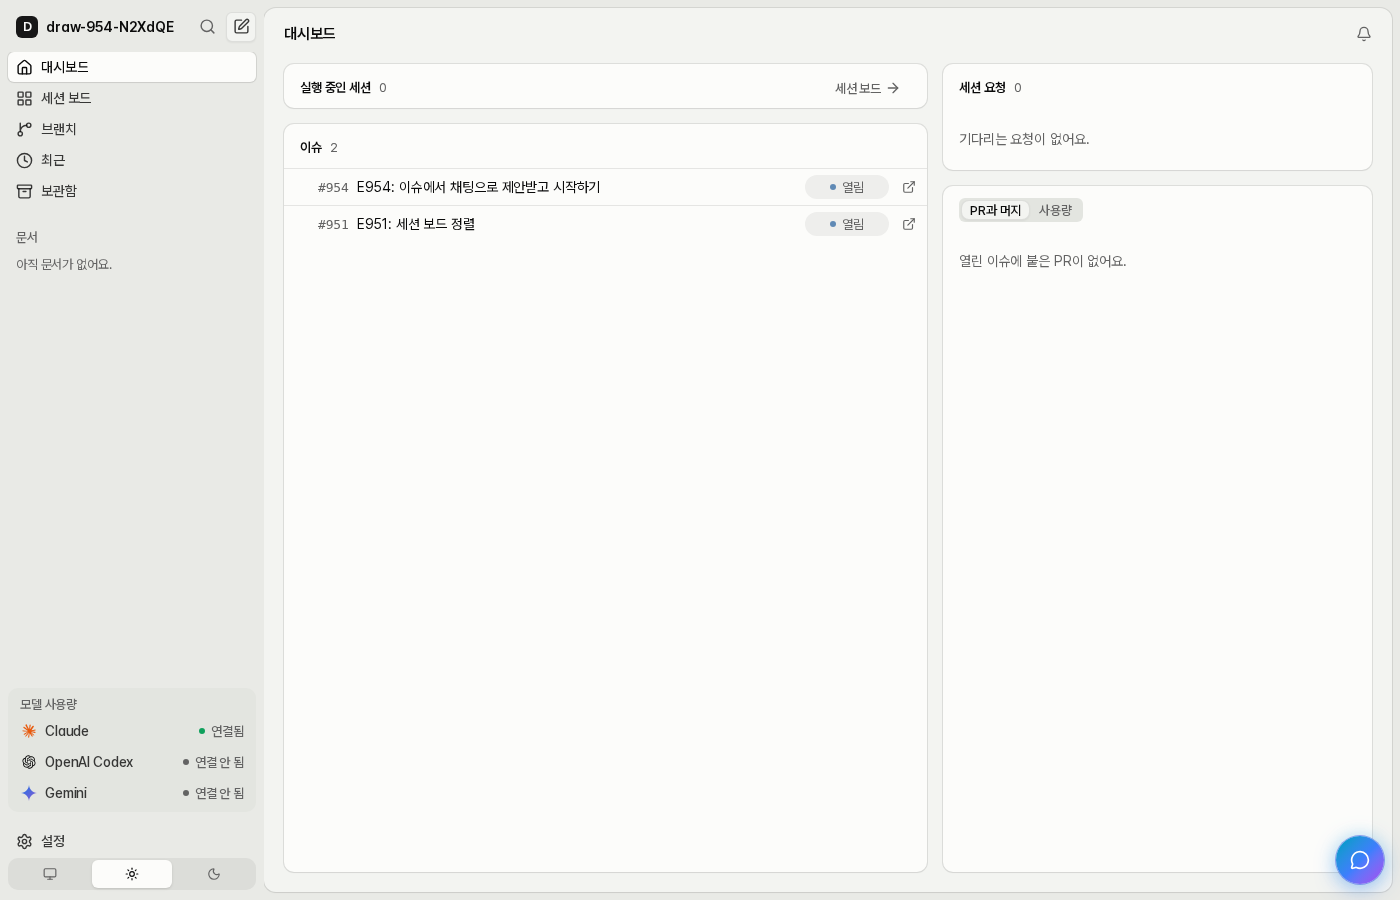
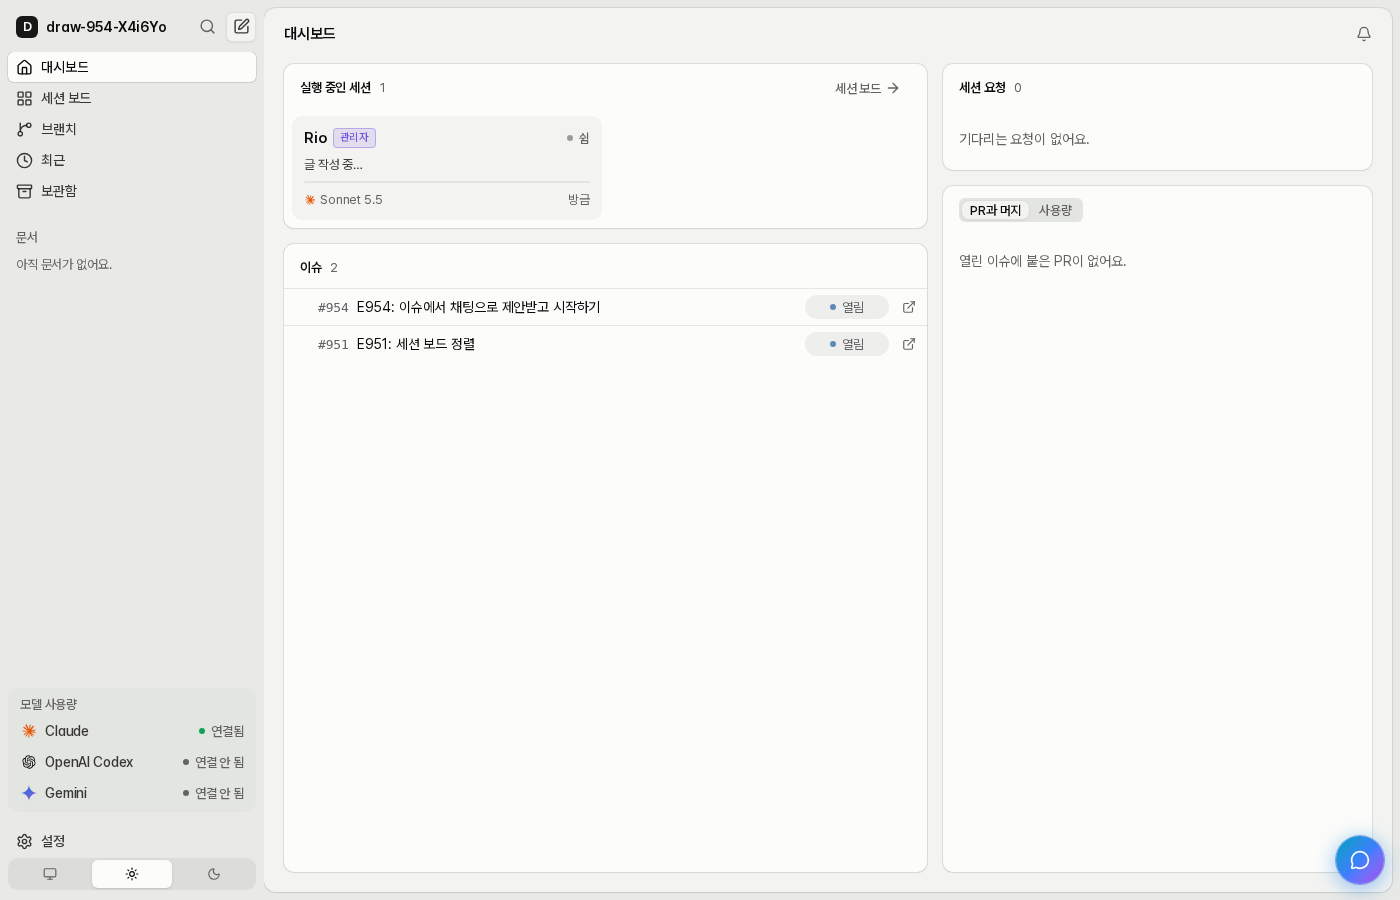
docs(issues): #954 summary and light/dark captures; dark pass runs first

diff --git a/Issues/954.md b/Issues/954.md
@@ -1,0 +1,7 @@
+# #954 이슈 행에서 채팅으로 제안받고 시작하기
+
+- 변경: 팀이 없는 이슈 행을 누르면 채팅(도우미)이 열리고, 이슈 카드(번호·제목·상태·요약·GitHub에서 열기)가 고정되며, 제안 질문이 한 번 나가요.
+- 도우미 답 아래 [시작하기]·[수정 요청]: 모델·관리자 선택, 시작하기는 동기 잠금으로 한 번만, 수정 요청은 입력창 포커스.
+- 팀이 있는 이슈는 팀 패널(‘채팅으로 가기’ 추가). 이슈 행마다 GitHub 버튼. 사이드 시작 패널(IssueStartPanel)은 삭제.
+- 확인: 관련 단위 테스트, `tsc -p web --noEmit`, `npm run build`, 헤드리스 라이트·다크 캡처(시작하기 2번 눌러도 관리자 1개, 수정 요청 → 입력창 포커스).
+- 스크린샷·스크립트: `Issues/954/` (`capture.mjs`, 가짜 CLI·가짜 gh, 임시 워크스페이스).
